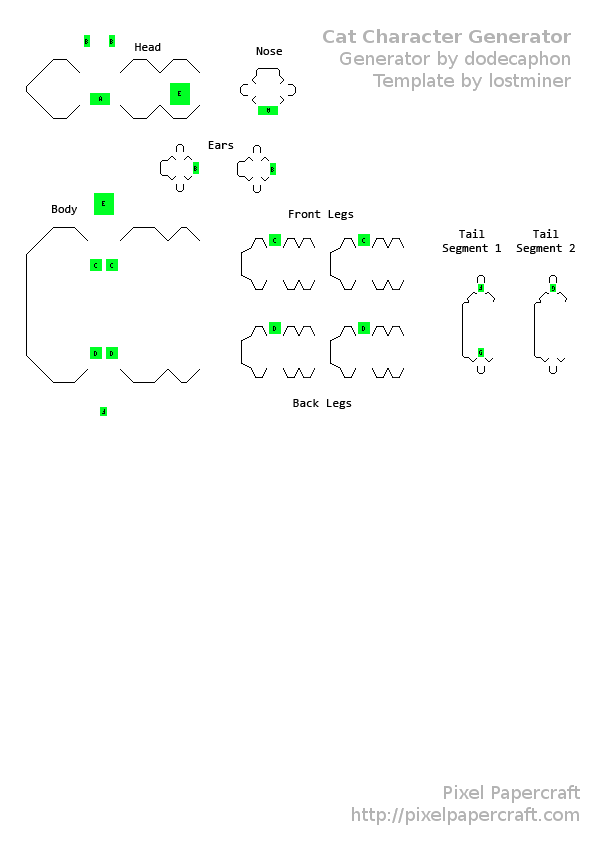
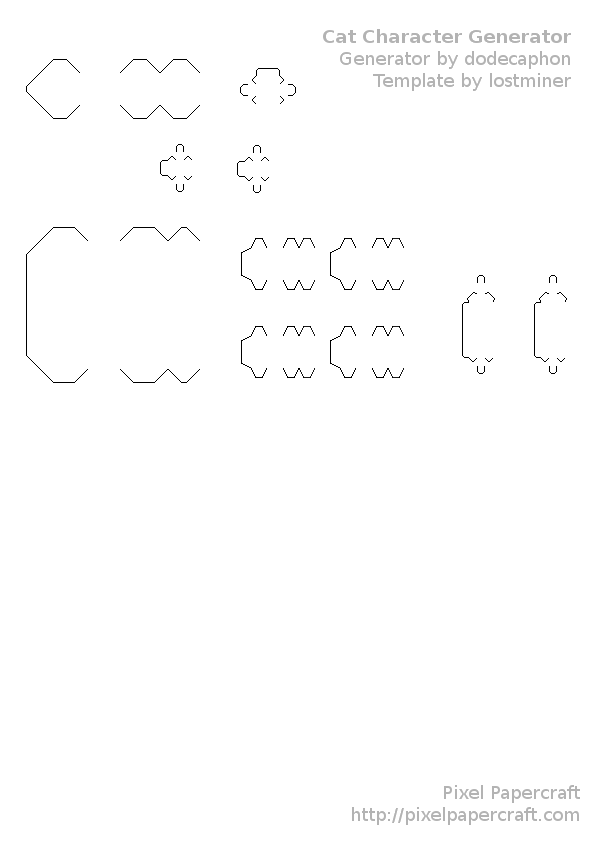
Added Separate Cat Character Generator Labels Toggle

diff --git a/src/generators/minecraft-cat-character/MinecraftCatCharacterGenerator.bs.js b/src/generators/minecraft-cat-character/MinecraftCatCharacterGenerator.bs.js
@@ -19,16 +19,20 @@ var thumbnail = {
   url: require("./thumbnail/thumbnail.jpeg")
 };
 
-var images = [
-  {
-    id: "Background",
-    url: requireImage("Background")
-  },
-  {
-    id: "Folds",
-    url: requireImage("Folds")
-  }
+var imageIds = [
+  "Background",
+  "Folds",
+  "Labels"
 ];
+
+function toImageDef(id) {
+  return {
+          id: id,
+          url: requireImage(id)
+        };
+}
+
+var images = imageIds.map(toImageDef);
 
 var textures = [{
     id: "Skin",
@@ -44,11 +48,9 @@ function script(param) {
         choices: []
       });
   Generator.defineBooleanInput("Show Folds", true);
+  Generator.defineBooleanInput("Show Labels", true);
   var showFolds = Generator.getBooleanInputValue("Show Folds");
-  Generator.drawImage("Background", [
-        0,
-        0
-      ]);
+  var showLabels = Generator.getBooleanInputValue("Show Labels");
   Generator.drawTextureLegacy("Skin", {
         x: 0,
         y: 8,
@@ -869,7 +871,13 @@ function script(param) {
         0
       ]);
   if (showFolds) {
-    return Generator.drawImage("Folds", [
+    Generator.drawImage("Folds", [
+          0,
+          0
+        ]);
+  }
+  if (showLabels) {
+    return Generator.drawImage("Labels", [
                 0,
                 0
               ]);
@@ -895,6 +903,8 @@ exports.requireTexture = requireTexture;
 exports.id = id;
 exports.name = name;
 exports.thumbnail = thumbnail;
+exports.imageIds = imageIds;
+exports.toImageDef = toImageDef;
 exports.images = images;
 exports.textures = textures;
 exports.script = script;
